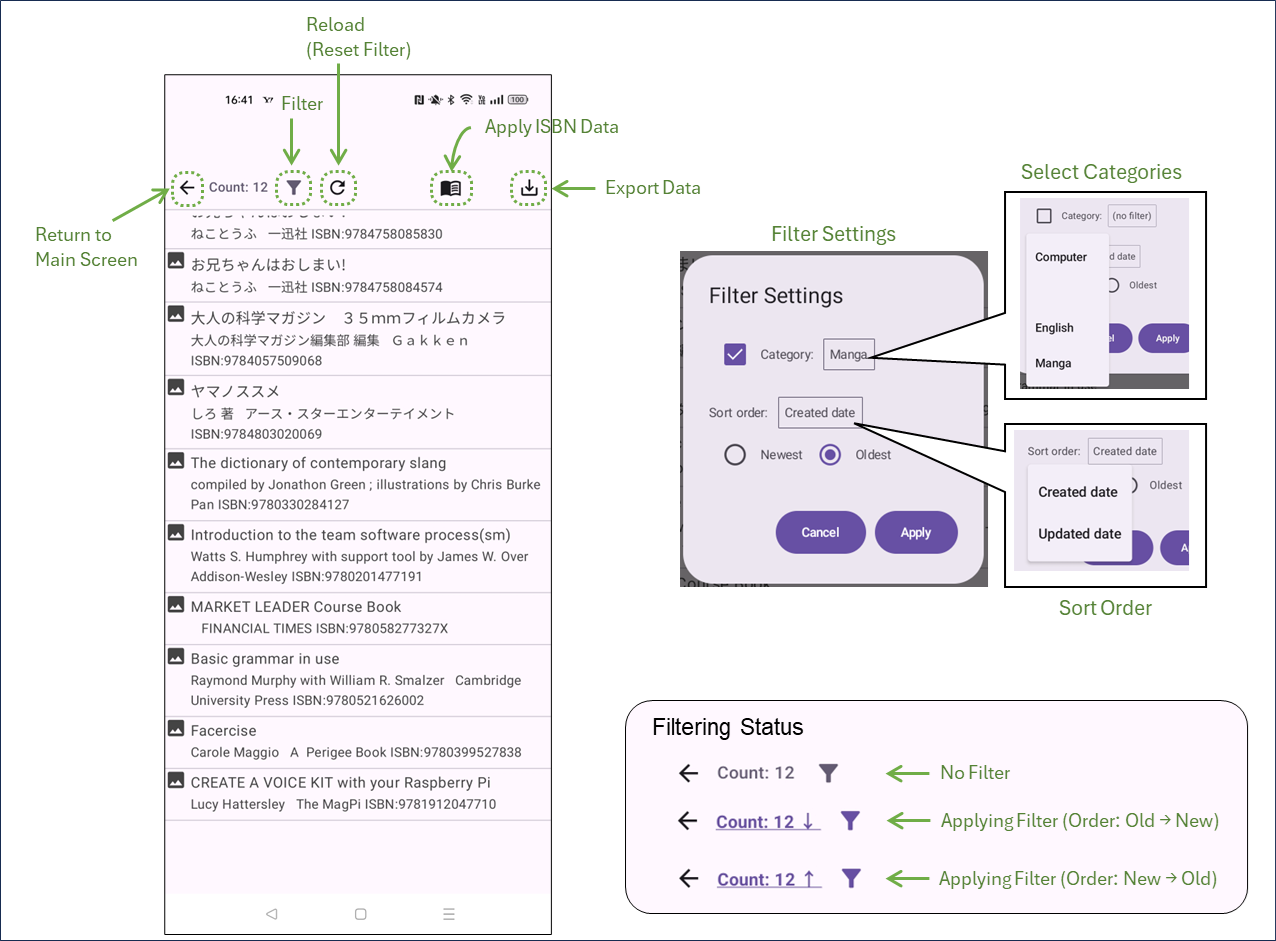
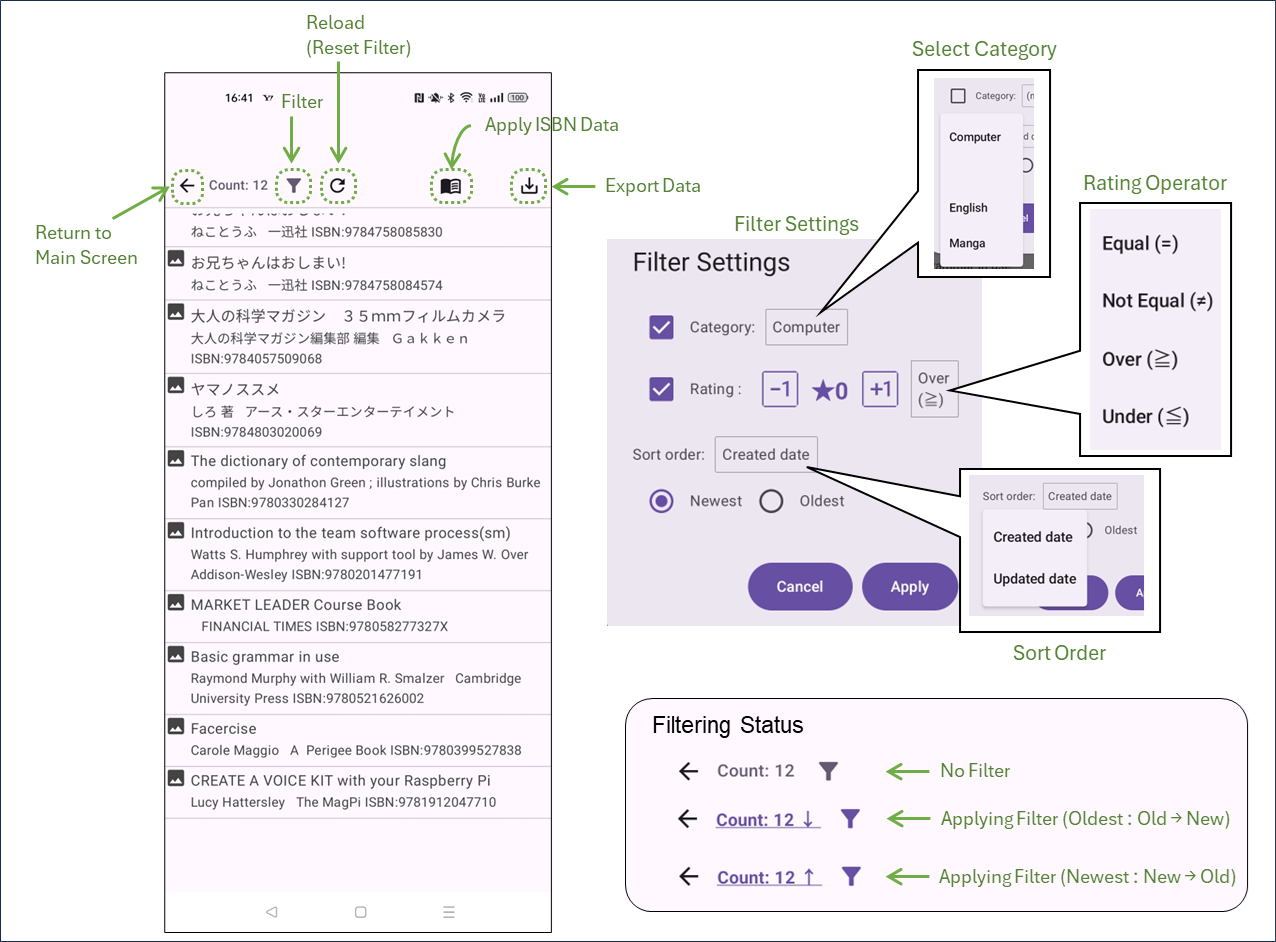
説明を更新。

diff --git a/docs/Readme.md b/docs/Readme.md
@@ -2,6 +2,8 @@
 
 「ごきげん本棚」は、本やその他の所有物を管理するAndroidアプリケーションです。
 
+アイテムの情報を登録するだけでなく、メモや８段階の評価を記録することができます。
+
 ## スクリーンショット
 
 ![Screenshot](images/screenshots.png "Screenshots")
@@ -52,6 +54,8 @@
 ![詳細画面に遷移](images/inventory_list.png "詳細画面に遷移")
 
 フィルタアイコンをタッチすると、一覧に表示する内容をフィルタリングすることができます。リロードボタンで、フィルタリングの解除ができます。
+
+フィルタリングは、「カテゴリ」と「評価」で、また、データ登録順、データ更新順で並べ替えの設定が可能です。
 
 ![一覧画面のフィルタリング](images/filter_settings_filter.png "一覧画面のフィルタリング")
 
@@ -141,6 +145,7 @@
 
 * 「1つのファイルにまとめてエクスポート」が ON の場合
   * Download/ の下に サブフォルダ inventoryYYYYMMDD_hhmmss/ (YYYYMMDD_hhmms は、年月日_時分秒)　を作成し、その中に zip形式のファイル、inventoryDataExport.json.zip を出力します。
+   zip形式のファイルの中には、JSON形式のデータファイルと、画像ファイルがアーカイブされています。
 
 * 「1つのファイルにまとめてエクスポート」が OFF の場合
   * Download/ の下に サブフォルダ inventoryYYYYMMDD_hhmmss/ (YYYYMMDD_hhmms は、年月日_時分秒)　を作成し、その中に json形式のファイル、inventoryDataExport.json を出力します。
@@ -150,4 +155,9 @@
 
 ソースコードは、以下の場所で管理しています。
 
-* https://github.com/MRSa/InventoryManager.git
+* [https://github.com/MRSa/InventoryManager.git](https://github.com/MRSa/InventoryManager.git)
+
+
+## ライセンス
+
+* [https://github.com/MRSa/InventoryManager/blob/master/LICENSE.txt](https://github.com/MRSa/InventoryManager/blob/master/LICENSE.txt)
